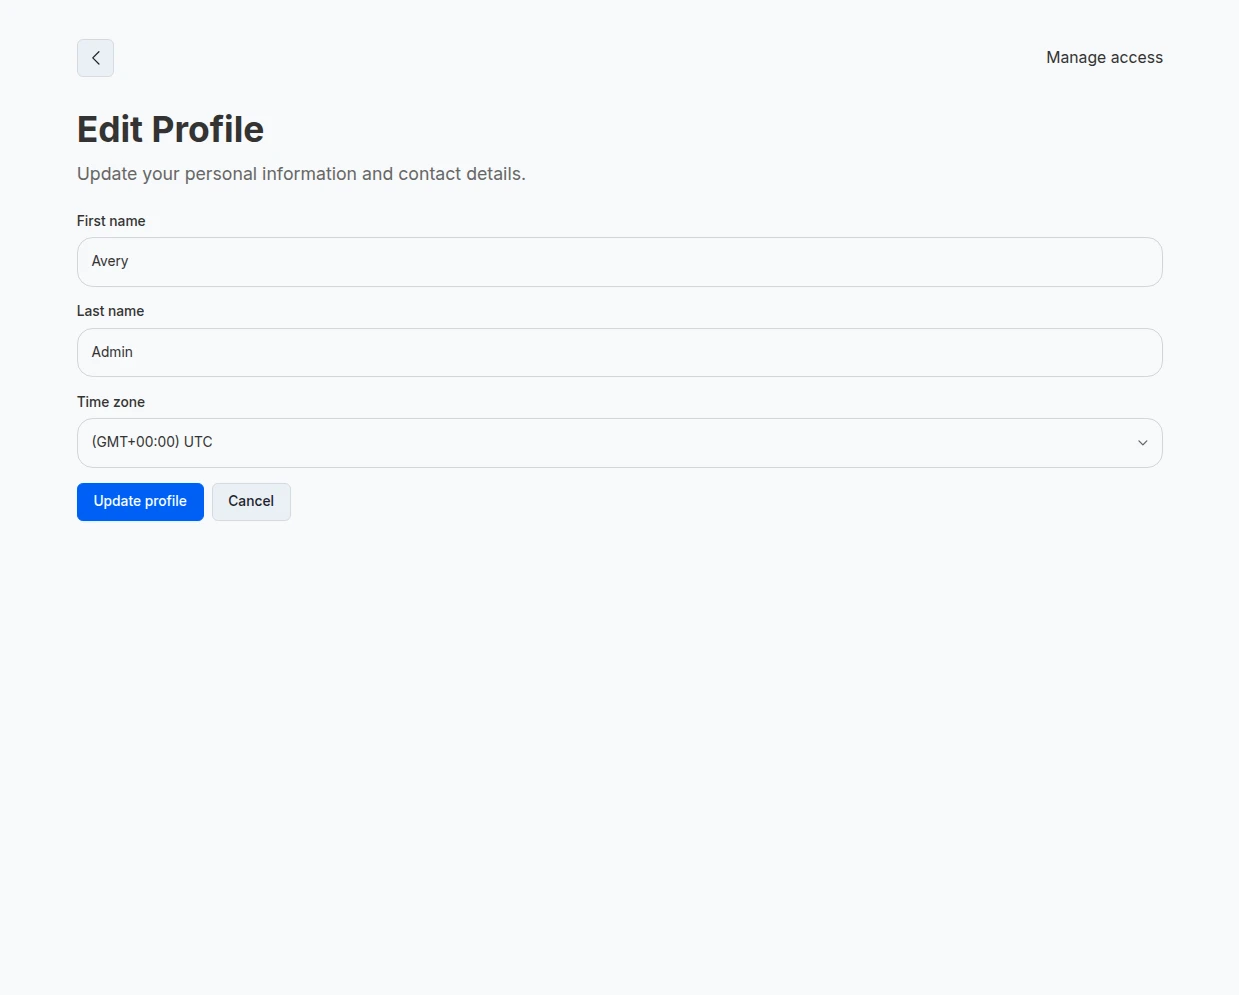
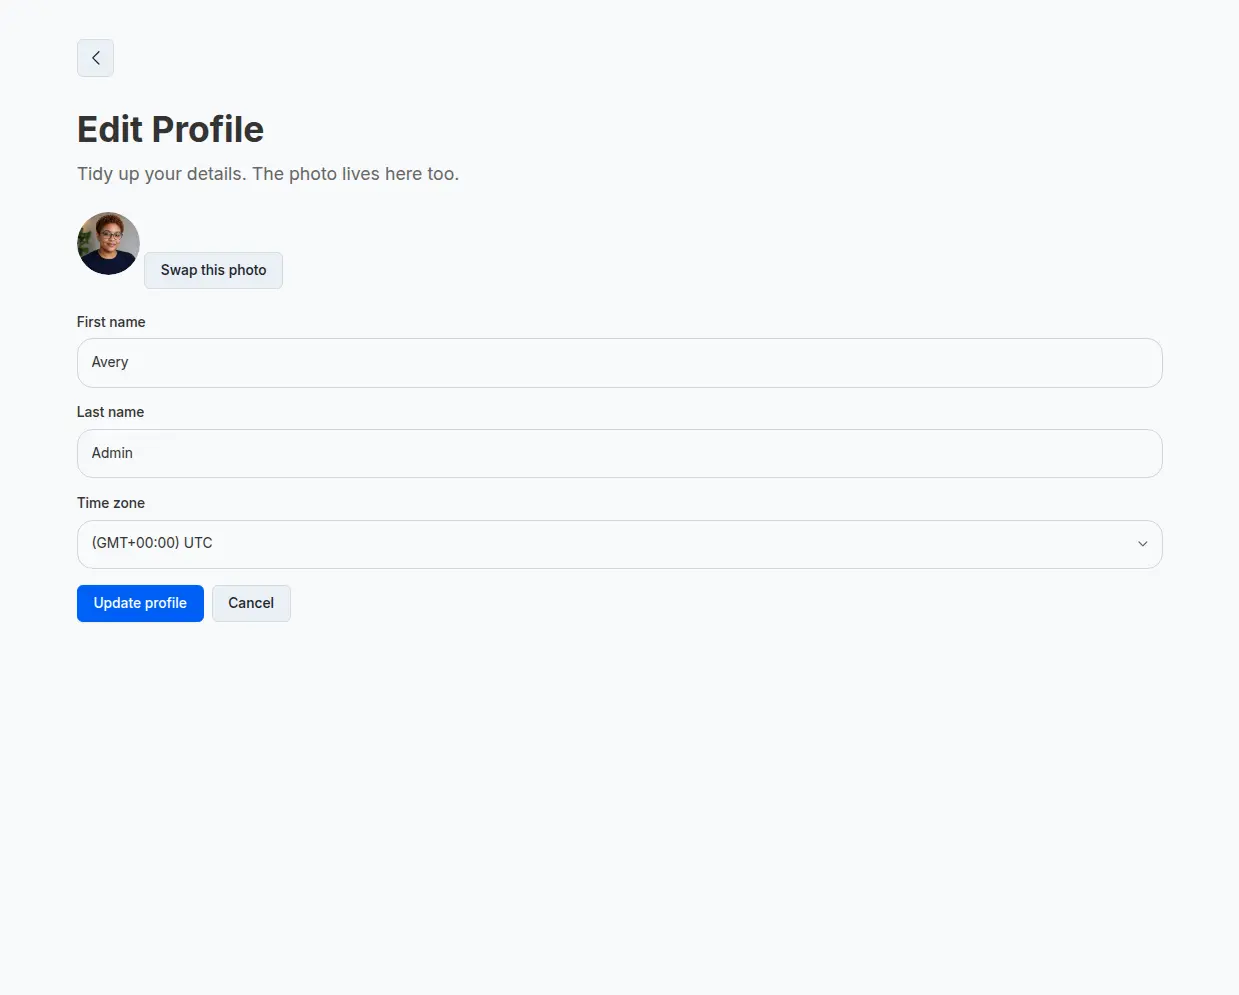
docs: recapture rounded profile show, edit, and photo replace shots
Confirm body data-theme=rounded from core default_layout. Slot is empty.
Avery Admin shows the seeded Attachable image. Move image helpers to
ProfileImage so Directory stays under the line limit.

diff --git a/lib/recording_studio_user/profile_image.rb b/lib/recording_studio_user/profile_image.rb
@@ -1,0 +1,39 @@
+# frozen_string_literal: true
+
+module RecordingStudioUser
+  # Public helpers for the single Attachable image under a Profile recording.
+  module ProfileImage
+    module_function
+
+    def recording_for(user)
+      recording = Directory.profile_recording_for(user)
+      return if recording.blank?
+
+      recording.images(per_page: 1).first
+    end
+
+    def attach!(user, io:, filename:, content_type:, actor: nil)
+      recording = Directory.profile_recording_for(user)
+      raise ArgumentError, "Profile recording is missing" if recording.blank?
+
+      existing = recording_for(user)
+      return existing if existing.present?
+
+      import!(recording, io:, filename:, content_type:, actor: actor || user)
+    end
+
+    def import!(recording, io:, filename:, content_type:, actor:)
+      result = RecordingStudioAttachable::Services::ImportAttachment.call(
+        parent_recording: recording,
+        io: io,
+        filename: filename,
+        content_type: content_type,
+        actor: actor,
+        name: File.basename(filename.to_s, File.extname(filename.to_s))
+      )
+      raise result.error if result.failure?
+
+      result.value
+    end
+  end
+end

diff --git a/lib/recording_studio_user/directory.rb b/lib/recording_studio_user/directory.rb
@@ -29,33 +29,6 @@ module RecordingStudioUser
       )
     end
 
-    def profile_image_recording_for(user)
-      recording = profile_recording_for(user)
-      return if recording.blank?
-
-      recording.images(per_page: 1).first
-    end
-
-    def attach_profile_image!(user, io:, filename:, content_type:, actor: nil, name: nil)
-      recording = profile_recording_for(user)
-      raise ArgumentError, "Profile recording is missing" if recording.blank?
-
-      existing = profile_image_recording_for(user)
-      return existing if existing.present?
-
-      result = RecordingStudioAttachable::Services::ImportAttachment.call(
-        parent_recording: recording,
-        io: io,
-        filename: filename,
-        content_type: content_type,
-        actor: actor || user,
-        name: name.presence || File.basename(filename.to_s, File.extname(filename.to_s))
-      )
-      raise result.error if result.failure?
-
-      result.value
-    end
-
     def create_user!(email:, password:, password_confirmation: nil, actor: nil, **attributes)
       profile_attrs = attributes.extract!(*PROFILE_ATTRIBUTE_KEYS)
       confirmation = password_confirmation.presence || password

diff --git a/lib/recording_studio_user.rb b/lib/recording_studio_user.rb
@@ -5,6 +5,7 @@ require "recording_studio_user/configuration"
 require "recording_studio_user/engine"
 require "recording_studio_user/admin"
 require "recording_studio_user/directory"
+require "recording_studio_user/profile_image"
 require "recording_studio_user/profile_access"
 
 module RecordingStudioUser
@@ -48,11 +49,11 @@ module RecordingStudioUser
     end
 
     def profile_image_recording_for(user)
-      Directory.profile_image_recording_for(user)
+      ProfileImage.recording_for(user)
     end
 
     def attach_profile_image!(...)
-      Directory.attach_profile_image!(...)
+      ProfileImage.attach!(...)
     end
 
     def create_user!(...)

diff --git a/test/dummy/test/models/profile_attachable_test.rb b/test/dummy/test/models/profile_attachable_test.rb
@@ -10,7 +10,7 @@ class ProfileAttachableTest < ActiveSupport::TestCase
 
     assert RecordingStudio.capability_enabled?(:attachable, for: "RecordingStudioUser::Profile")
     refute RecordingStudio.capability_enabled?(:attachable, for: "RecordingStudioUser::People")
-    assert_equal ["image/*"], options[:allowed_content_types]
+    assert_equal [ "image/*" ], options[:allowed_content_types]
     assert_equal %i[image], options[:enabled_attachment_kinds]
     assert_equal 1, options[:max_file_count]
     refute_includes RecordingStudio.capability_allowed_parent_types_for("RecordingStudioAttachable::Attachment"),

diff --git a/test/dummy/config/initializers/recording_studio_attachable.rb b/test/dummy/config/initializers/recording_studio_attachable.rb
@@ -1,7 +1,7 @@
 # frozen_string_literal: true
 
 RecordingStudioAttachable.configure do |config|
-  config.allowed_content_types = ["image/*"]
+  config.allowed_content_types = [ "image/*" ]
   config.max_file_size = 25.megabytes
   # Maximum number of files accepted in a single upload or import request.
   config.max_file_count = 1

diff --git a/test/dummy/test/support/profile_image_test_helper.rb b/test/dummy/test/support/profile_image_test_helper.rb
@@ -12,8 +12,7 @@ module ProfileImageTestHelper
         io: io,
         filename: filename,
         content_type: "image/png",
-        actor: user,
-        name: "Profile"
+        actor: user
       )
     end
   end

diff --git a/test/dummy/db/seeds.rb b/test/dummy/db/seeds.rb
@@ -61,8 +61,7 @@ begin
       io: io,
       filename: "avery-admin.png",
       content_type: "image/png",
-      actor: user,
-      name: "Avery"
+      actor: user
     )
   end
 
